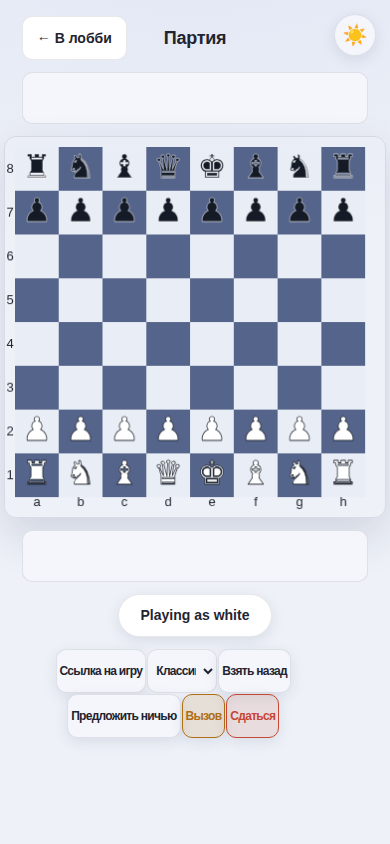
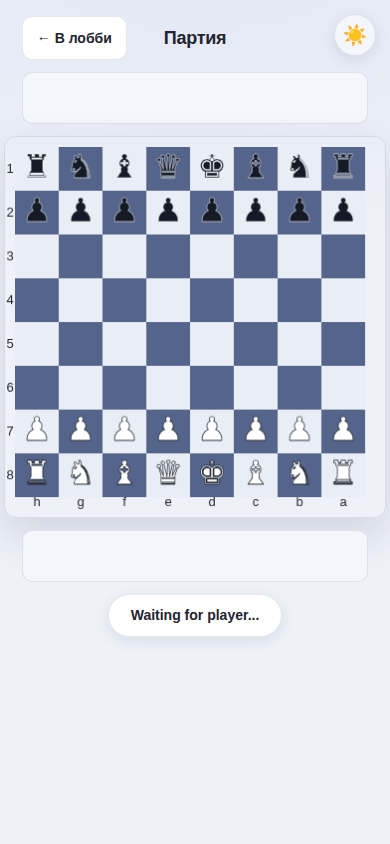
fix(game): center action bar in --game-col; method select fits 'Классика' at 74px

diff --git a/src/public/styles/game.css b/src/public/styles/game.css
@@ -300,7 +300,8 @@ canvas#cnv {
 .game-actions {
   display: flex;
   gap: var(--sp-2);
-  margin: var(--sp-3) 0;
+  /* contract-37 integration: center the action bar in --game-col like the other blocks */
+  margin: var(--sp-3) auto;
   justify-content: center;
   flex-wrap: wrap;
   width: var(--game-col);
@@ -591,9 +592,9 @@ canvas#cnv {
 .game-actions #method-select {
   height: 44px;
   min-width: 0;
-  flex: 0 0 70px;
-  width: 70px;
-  padding: 9px 4px;
-  font-size: var(--fs-xs);
+  flex: 0 0 74px;
+  width: 74px;
+  padding: 9px 2px;
+  font-size: 11px;
   letter-spacing: -0.7px;
 }
